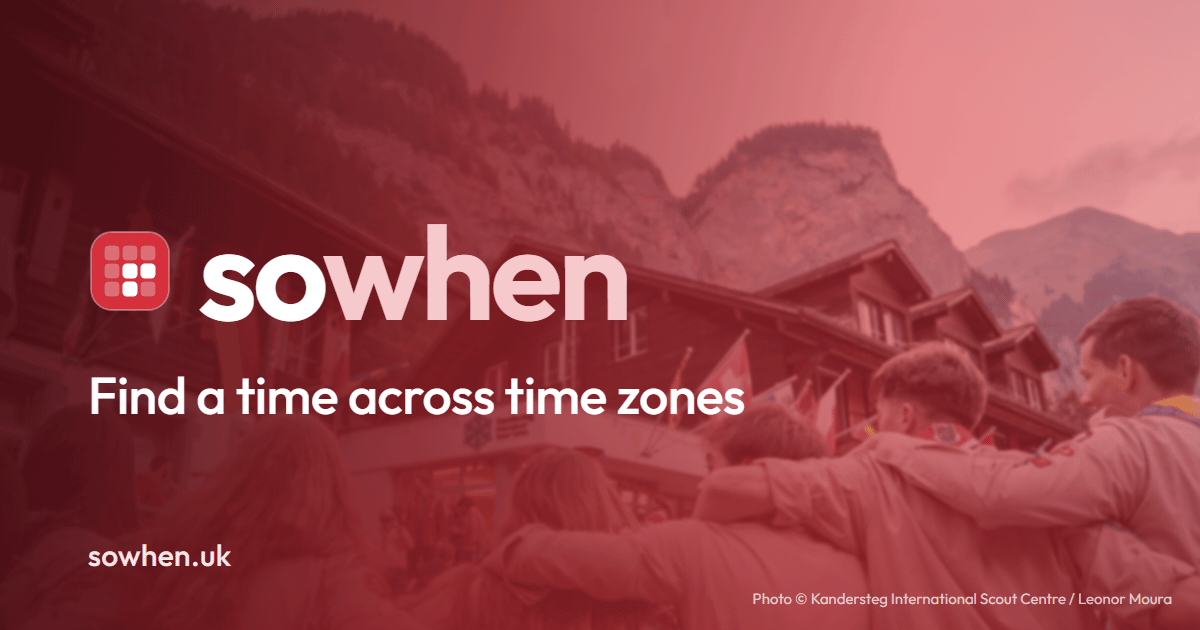
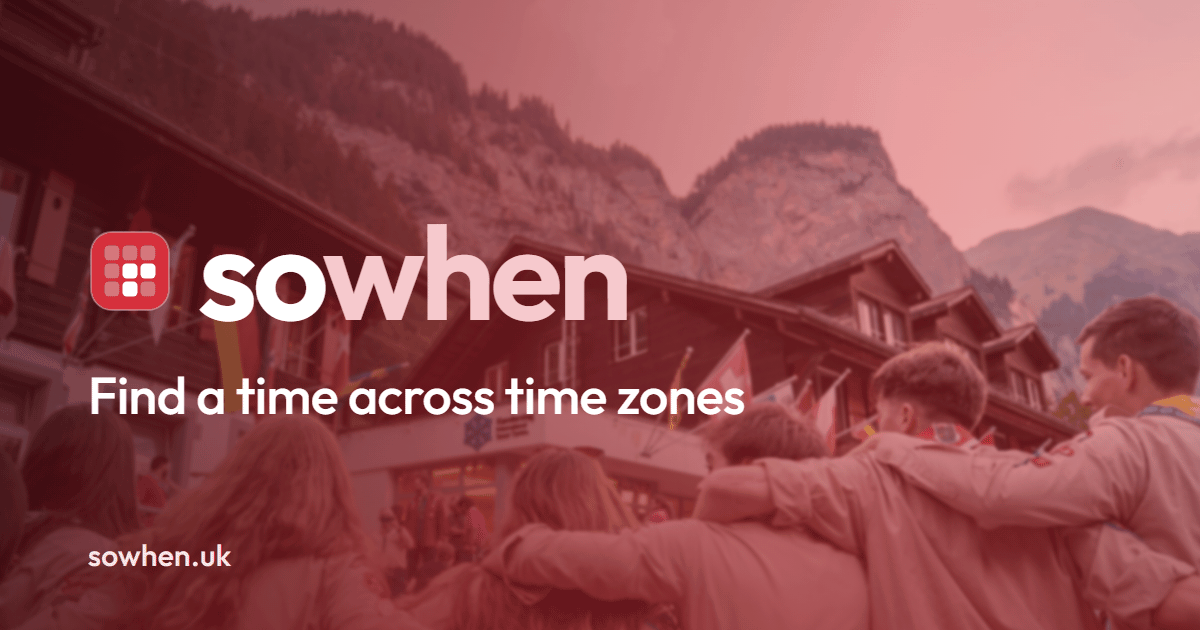
fix: aclara la capa roja de las vistas previas y quita el crédito de la foto
La capa roja de la imagen de cada evento y de la imagen fija es un 20 % más
transparente, para que se vea más la foto. El crédito de la foto ya no va en
las vistas previas; sigue en la portada.

diff --git a/src/lib/og-image.ts b/src/lib/og-image.ts
@@ -1,11 +1,11 @@
 // The per-event link-preview image (ADR 0018), drawn in the browser and uploaded with the admin
 // secret. The Worker can't draw it: the free Workers plan allows ~10 ms of CPU per request.
 // Same look as the static /og/sowhen.png (scripts/og-image.mjs): the hero photo under a red overlay,
-// with the event title and dates instead of the tagline. Never names.
+// with the event title and dates instead of the tagline. Never names. No photo credit: the home page
+// carries it.
 import { ADMIN_HEADER, OG_DRAWN_FOR_HEADER } from "@/shared/api";
 import { formatDates, OG_IMAGE_HEIGHT as H, OG_IMAGE_MAX_BYTES, OG_IMAGE_WIDTH as W } from "@/shared/preview";
 import type { EventDto } from "@/shared/types";
-import { HERO_CREDIT } from "@/lib/hero";
 import { zoneCity } from "@/lib/zones";
 
 const FONT = '"Outfit Variable", Outfit, ui-sans-serif, system-ui, sans-serif';
@@ -100,14 +100,14 @@ export async function drawOgImage(event: Drawable): Promise<Blob> {
 
 	// Red overlay, denser on the left where the text sits.
 	const side = ctx.createLinearGradient(0, 0, W, H * 0.18);
-	side.addColorStop(0, "rgba(67,12,18,0.94)");
-	side.addColorStop(0.42, "rgba(145,29,39,0.86)");
-	side.addColorStop(0.75, "rgba(214,48,60,0.6)");
-	side.addColorStop(1, "rgba(214,48,60,0.48)");
+	side.addColorStop(0, "rgba(67,12,18,0.75)");
+	side.addColorStop(0.42, "rgba(145,29,39,0.69)");
+	side.addColorStop(0.75, "rgba(214,48,60,0.48)");
+	side.addColorStop(1, "rgba(214,48,60,0.38)");
 	ctx.fillStyle = side;
 	ctx.fillRect(0, 0, W, H);
 	const bottom = ctx.createLinearGradient(0, H, 0, H * 0.5);
-	bottom.addColorStop(0, "rgba(67,12,18,0.6)");
+	bottom.addColorStop(0, "rgba(67,12,18,0.48)");
 	bottom.addColorStop(1, "rgba(67,12,18,0)");
 	ctx.fillStyle = bottom;
 	ctx.fillRect(0, 0, W, H);
@@ -160,10 +160,6 @@ export async function drawOgImage(event: Drawable): Promise<Blob> {
 	ctx.font = `500 28px ${FONT}`;
 	ctx.fillStyle = "#fff";
 	ctx.fillText("Paint when you're free · sowhen.uk", PAD, H - 56);
-	ctx.font = `400 15px ${FONT}`;
-	ctx.fillStyle = "rgba(255,255,255,0.72)";
-	ctx.textAlign = "right";
-	ctx.fillText(`Photo ${HERO_CREDIT.line ?? ""}`.trim(), W - 28, H - 22);
 
 	for (const quality of [0.85, 0.72, 0.6]) {
 		const blob = await new Promise<Blob | null>((resolve) => canvas.toBlob(resolve, "image/jpeg", quality));
